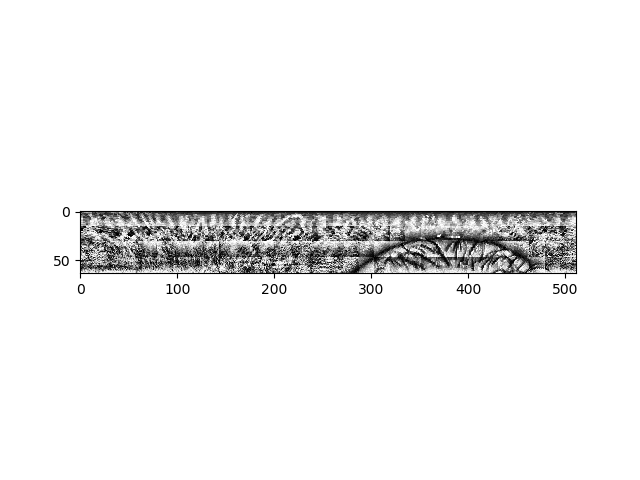
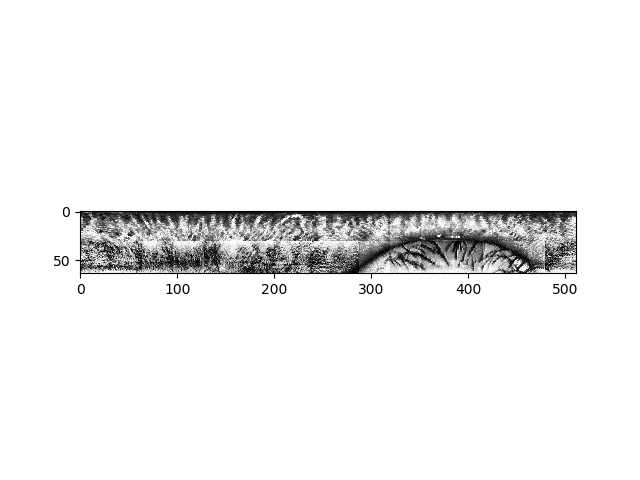
image added

Changed region(s): [[0.125, 0.4375, 0.9062, 0.5938], [0.6562, 0.4375, 0.6875, 0.4688]]

diff --git a/iris_recognition/ImageEnhancement.py b/iris_recognition/ImageEnhancement.py
@@ -1,19 +1,19 @@
 import cv2
-
+import matplotlib.pyplot as plt
 
 def run(img):
     """
-    It divides the normalized image into 16 by 16 grids and equalizes the histogram of each grid.
+    It divides the normalized image into 32 by 32 grids and equalizes the histogram of each grid.
 
     :param img: normalized iris image
     :return: enhance image by histogram equalization
     """
     # do not change the original image
     img2 = img.copy()
-    size = 16
-    for i in range(4):
-        for j in range(32):
-            # Define each 16 by 16 grid iteratively
+    size = 32
+    for i in range(2):
+        for j in range(16):
+            # Define each 32 by 32 grid iteratively
             start_height = i*size
             end_height = start_height+size
             start_wid = j*size
@@ -21,5 +21,7 @@ def run(img):
             grid = img2[start_height:end_height, start_wid:end_wid]
             # Histogram Equalization
             img2[start_height:end_height, start_wid:end_wid] = cv2.equalizeHist(grid)
+    plt.imshow(img2, cmap="gray")
+    plt.savefig("plot/enhanced.png")
 
     return img2

diff --git a/iris_recognition/IrisRecognition.py b/iris_recognition/IrisRecognition.py
@@ -23,6 +23,7 @@ def get_train_feature():
                 eye_num, eye_num, j)
             img = cv2.imread(path, 0)
             feature = raw_img_process(img)
+            quit()
             x_train.append(feature)
             y_train.append(i)
     np.savetxt('csv/train_feature.csv', x_train, delimiter=',')
